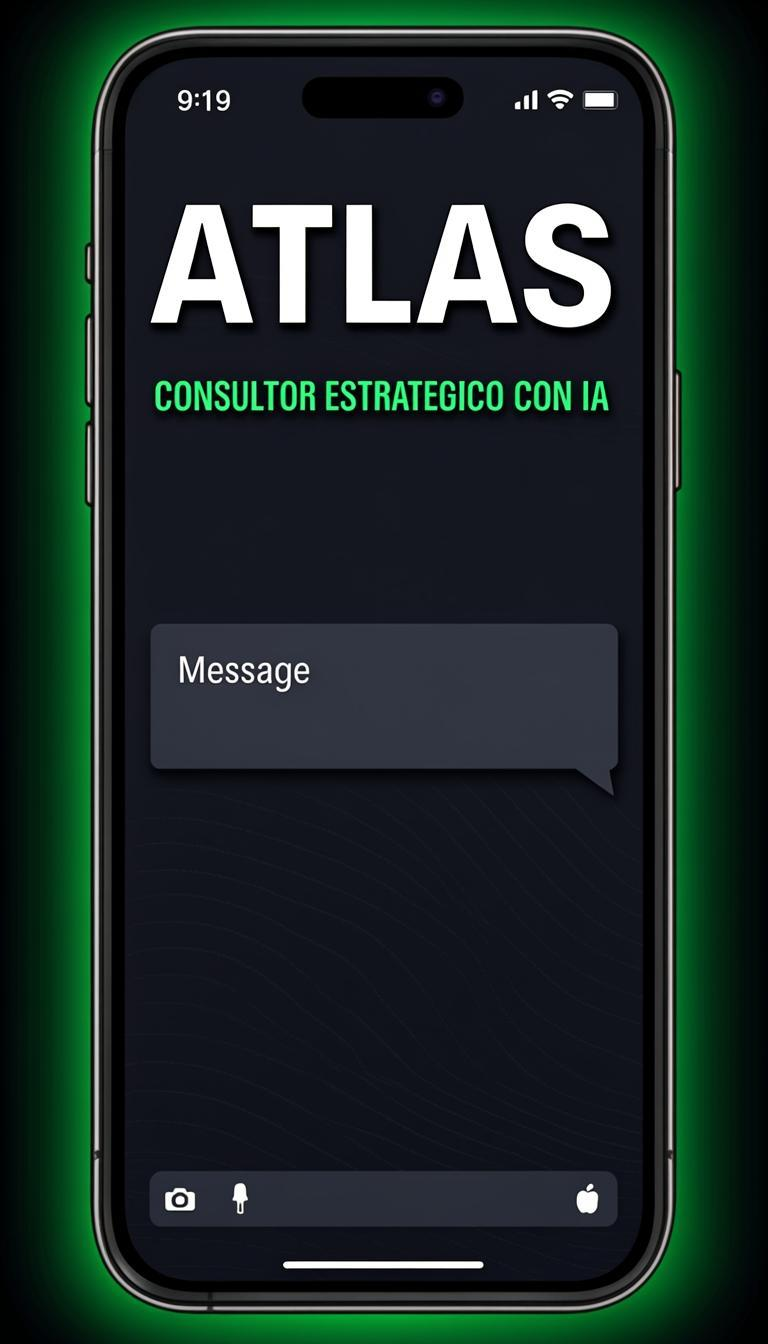
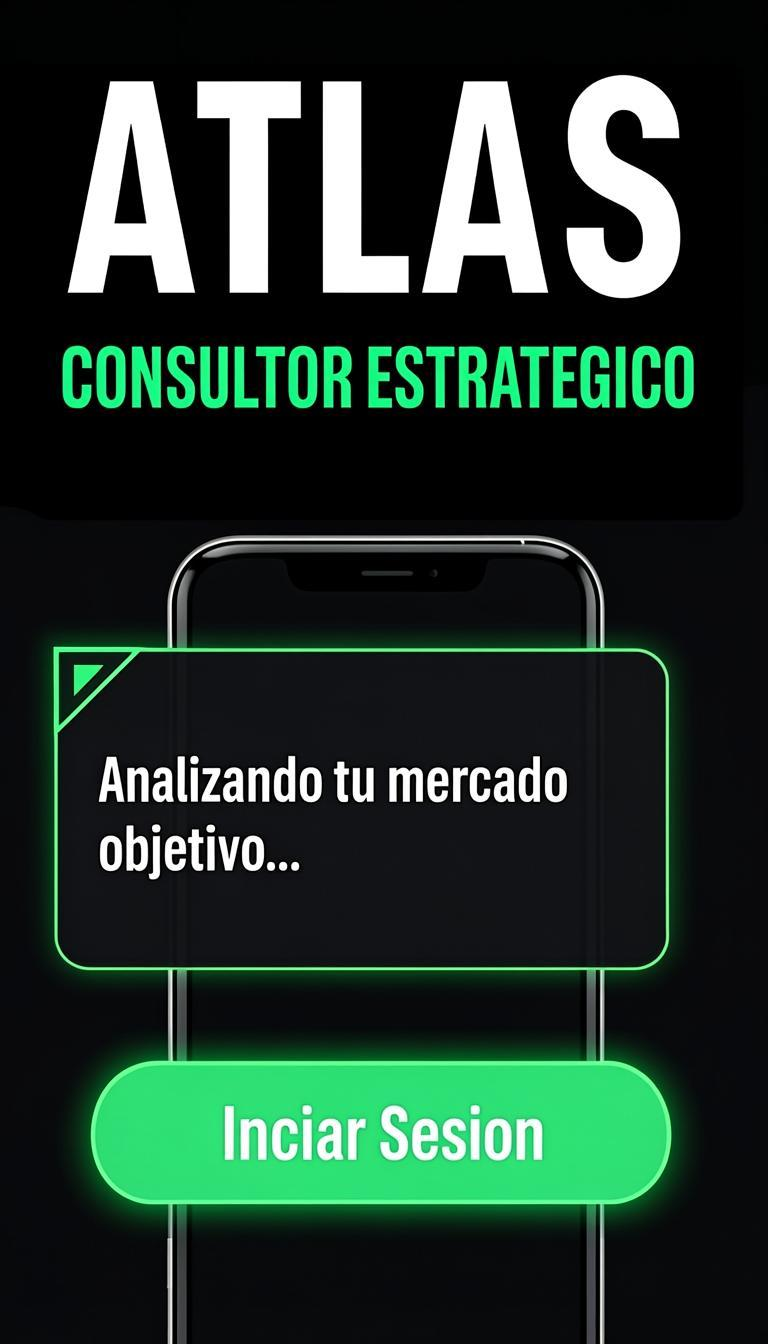
fix: mostrar ambos mockups en desktop + imagenes con contenido legible
- Desktop: Laptop + Smartphone lado a lado (gap-8)
- Mobile: Solo Smartphone (prioridad)
- AtlasDesktop.png: logo ATLAS grande, chat legible, metricas claras
- AtlasApp.png: logo ATLAS prominente (80px+), chat con texto grande
- Eliminados botones toggle (sin cambios previos)

diff --git a/src/App.jsx b/src/App.jsx
@@ -3490,25 +3490,35 @@ const PortfolioModal = ({ project, language, onClose }) => {
             {/* Subtle grid background */}
             <div className="absolute inset-0 bg-[linear-gradient(rgba(0,0,0,0.02)_1px,transparent_1px),linear-gradient(90deg,rgba(0,0,0,0.02)_1px,transparent_1px)] bg-[size:40px_40px] dark:bg-[linear-gradient(rgba(255,255,255,0.02)_1px,transparent_1px),linear-gradient(90deg,rgba(255,255,255,0.02)_1px,transparent_1px)] pointer-events-none" />
 
-            {/* Mobile viewport → Smartphone only */}
-            <motion.div
-              initial={{ opacity: 0, y: 20 }}
-              animate={{ opacity: 1, y: 0 }}
-              transition={{ delay: 0.3, duration: 0.5 }}
-              className="flex md:hidden justify-center"
-            >
-              <IPhoneMockup imageSrc={modalMobileImage} alt={project.title} />
-            </motion.div>
+            {/* Mobile viewport → Smartphone only (priority) */}
+            <div className="flex md:hidden justify-center">
+              <motion.div
+                initial={{ opacity: 0, y: 20 }}
+                animate={{ opacity: 1, y: 0 }}
+                transition={{ delay: 0.3, duration: 0.5 }}
+              >
+                <IPhoneMockup imageSrc={modalMobileImage} alt={project.title} />
+              </motion.div>
+            </div>
 
-            {/* Desktop viewport → Laptop only */}
-            <motion.div
-              initial={{ opacity: 0, y: 20 }}
-              animate={{ opacity: 1, y: 0 }}
-              transition={{ delay: 0.3, duration: 0.5 }}
-              className="hidden md:flex justify-center"
-            >
-              <MacBookMockup imageSrc={modalImage} alt={project.title} />
-            </motion.div>
+            {/* Desktop viewport → Laptop + Smartphone side by side */}
+            <div className="hidden md:flex items-center justify-center gap-8">
+              <motion.div
+                initial={{ opacity: 0, x: -30 }}
+                animate={{ opacity: 1, x: 0 }}
+                transition={{ delay: 0.3, duration: 0.5 }}
+                className="flex-1 flex justify-center"
+              >
+                <MacBookMockup imageSrc={modalImage} alt={project.title} />
+              </motion.div>
+              <motion.div
+                initial={{ opacity: 0, x: 30 }}
+                animate={{ opacity: 1, x: 0 }}
+                transition={{ delay: 0.45, duration: 0.5 }}
+              >
+                <IPhoneMockup imageSrc={modalMobileImage} alt={project.title} />
+              </motion.div>
+            </div>
           </motion.div>
 
           {/* Description */}